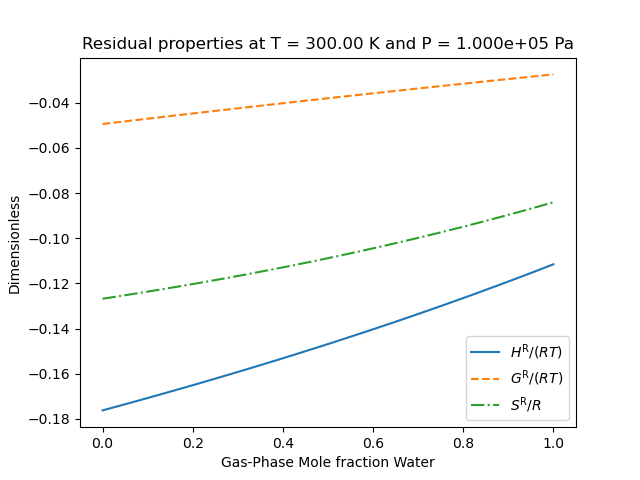
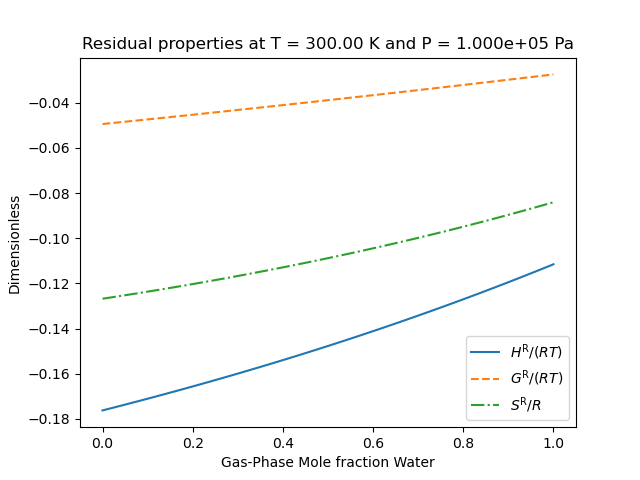
Fix bugs associated with new implementation of virial.py

diff --git a/src/gasthermo/eos/virial.py b/src/gasthermo/eos/virial.py
@@ -270,7 +270,7 @@ class Virial:
         :param P_c: critical pressure [Pa]
         :return: Equation :eq:`B_expr`
         """
-        return self.R * T_c / P_c * (
+        return R * T_c / P_c * (
                 self.B0_expr(T_r) + w * self.B1_expr(T_r)
         )
 
@@ -279,7 +279,7 @@ class Virial:
 
     def hat_phi_i_expr(self, *args):
         r"""expression for fugacity coefficient
-        :returns: :math:`\exp{\ln{\hat{\phi}_i}}`
+        :returns: :math:`\exp\left({\ln{\hat{\phi}_i}}\right)`
         """
         return self.exp(self.ln_hat_phi_k_expr(*args))
 
@@ -351,7 +351,7 @@ class SecondVirial(CriticalConstants, Virial):
         :type T: float
         """
         T_r = T / self.T_c
-        return P * self.B_expr(T_r, self.w, self.T_c, self.P_c) / self.R / T
+        return P * self.B_expr(T_r, self.w, self.T_c, self.P_c) / R / T
 
     def calc_Z_from_units(self, P, T):
         """
@@ -360,7 +360,7 @@ class SecondVirial(CriticalConstants, Virial):
         :param T: temperature in K
         :return: Equation :eq:`z_virial`
         """
-        return 1. + self.B_expr(T / self.T_c, self.w, self.T_c, self.P_c) * P / self.R / T
+        return 1. + self.B_expr(T / self.T_c, self.w, self.T_c, self.P_c) * P / R / T
 
     def calc_Z_from_dimensionless(self, P_r, T_r):
         """
@@ -451,13 +451,13 @@ class MixingRule(Virial):
         """
         return pow(T_ci * T_cj, 0.5) * (1. - k_ij)
 
-    def P_cij_rule(self, Z_ci, V_ci, T_ci, Z_cj, V_cj, T_cj):
+    def P_cij_rule(self, Z_ci, V_ci, T_ci, Z_cj, V_cj, T_cj, k_ij):
         """
 
         :return: Equation :eq:`Pc_combine`
         """
         Z_cij = self.Z_cij_rule(Z_ci, Z_cj)
-        T_cij = self.T_cij_rule(T_ci, T_cj)
+        T_cij = self.T_cij_rule(T_ci, T_cj, k_ij=k_ij)
         V_cij = self.V_cij_rule(V_ci, V_cj)
         return Z_cij * R * T_cij / V_cij
 
@@ -550,10 +550,19 @@ class SecondVirialMixture(MixingRule):
             self.V_cs = [None for i in range(self.num_components)]
         if self.T_cs is None:
             self.T_cs = [None for i in range(self.num_components)]
+        if self.Z_cs is None:
+            self.Z_cs = [None for i in range(self.num_components)]
         if self.ws is None:
             self.ws = [None for i in range(self.num_components)]
         if self.k_ij is None:
-            self.k_ij = [[None for i in range(self.num_components)] for j in range(self.num_components)]
+            self.k_ij = [[0. for i in range(self.num_components)] for j in range(self.num_components)]
+        if isinstance(self.k_ij, float) and self.num_components == 2:
+            value = self.k_ij
+            self.k_ij = [[0. for i in range(self.num_components)] for j in range(self.num_components)]
+            for i in range(self.num_components):
+                for j in range(self.num_components):
+                    if i != j:
+                        self.k_ij[i][j] = value
 
         self.critical_constants = []
         for i in range(self.num_components):
@@ -582,7 +591,7 @@ class SecondVirialMixture(MixingRule):
 
         for i in range(self.num_components):
             for j in range(self.num_components):
-                assert abs(self.k_ij[i][j]) < 1e-8, 'K[i][i] must be zero!'
+                assert self.k_ij[i][j] is None or abs(self.k_ij[i][j]) < 1e-8, 'K[i][i] must be zero!'
 
     def get_w_Tc_Pc(self, i: int, j=None):
         """Returns critical constants for calculation based off of whetner i = j or not
@@ -599,6 +608,7 @@ class SecondVirialMixture(MixingRule):
             self.P_cij_rule(
                 self.Z_cs[i], self.V_cs[i], self.T_cs[i],
                 self.Z_cs[j], self.V_cs[j], self.T_cs[j],
+                k_ij=self.k_ij[i][j]
             )
         )
 
@@ -634,7 +644,7 @@ class SecondVirialMixture(MixingRule):
         :param T: temperature in K
         :return: Equation :eq:`z_virial`
         """
-        return 1. + self.B_mix_expr(y_k, T) * P / self.R / T
+        return 1. + self.B_mix_expr(y_k, T) * P / R / T
 
     def d_ik_expr(self, i: int, k: int, T):
         """
@@ -797,15 +807,15 @@ class SecondVirialMixture(MixingRule):
         )
 
     def S_R_R(self, *args):
-        """Residual entropy of mixture :math:`S^\mathrm{R}`"""
+        r"""Residual entropy of mixture :math:`S^\mathrm{R}/R`"""
         return self.M_R_dimensionless(self.bar_SiR_R, *args)
 
     def H_R_RT(self, *args):
-        """Residual enthalpy of mixture :math:`H^\mathrm{R}`"""
+        r"""Residual enthalpy of mixture :math:`H^\mathrm{R}/R/T`"""
         return self.M_R_dimensionless(self.bar_HiR_RT, *args)
 
     def G_R_RT(self, *args):
-        """Residual free energy of mixture :math:`G^\mathrm{R}`"""
+        r"""Residual free energy of mixture :math:`G^\mathrm{R}/R/T`"""
         return self.M_R_dimensionless(self.bar_GiR_RT, *args)
 
     def plot_residual_HSG(self, P, T, ax=None, fig=None) -> typing.Tuple[plt.figure, plt.subplot]:
@@ -817,12 +827,14 @@ class SecondVirialMixture(MixingRule):
         :param fig: matplotlib figure, defautls to None
         """
 
+        assert self.num_components == 2, 'Plotting only implemented for binary mixtures'
+
         if ax is None:
             if fig is None:
                 fig = plt.figure()
             ax = fig.add_subplot(111)
             ax.set_ylabel('Dimensionless')
-            ax.set_xlabel('Gas-Phase Mole fraction %s' % self.i.compound_name)
+            ax.set_xlabel('Gas-Phase Mole fraction %s' % self.compound_names[0])
 
         y_1 = np.linspace(0., 1.)
         HR_RT = np.array(list(self.H_R_RT([i, 1. - i], P, T) for i in y_1))

diff --git a/tests/test_residual_properties.py b/tests/test_residual_properties.py
@@ -1,6 +1,6 @@
 import numpy as np
 from src.gasthermo.eos.cubic import PengRobinson
-from src.gasthermo.eos.virial import SecondVirial, BinarySecondVirial
+from src.gasthermo.eos.virial import SecondVirial, SecondVirialMixture
 from tests.test_cp_ig import compounds_to_test
 
 
@@ -25,22 +25,20 @@ def test_binary_virial():
     P, T = 10e5, 250.
     I = SecondVirial(compound_name='Water')
     J = SecondVirial(compound_name='Tetrahydrofuran')
-    mixture = BinarySecondVirial(
-        i_kwargs={'compound_name': 'Water'},
-        j_kwargs={'compound_name': 'Tetrahydrofuran'}, k_ij=0.)
+    mixture = SecondVirialMixture(compound_names=['Water', 'Tetrahydrofuran'], k_ij=0.)
     import numpy as np
     y_1 = np.linspace(0., 1.)
-    HR_RT = np.array(list(mixture.H_R_RT(mixture.i.cas_number, i, P, T) for i in y_1))
-    GR_RT = np.array(list(mixture.G_R_RT(mixture.i.cas_number, i, P, T) for i in y_1))
-    SR_R = np.array(list(mixture.S_R_R(mixture.i.cas_number, i, P, T) for i in y_1))
+    HR_RT = np.array(list(mixture.H_R_RT([i, 1.-i], P, T) for i in y_1))
+    GR_RT = np.array(list(mixture.G_R_RT([i, 1.-i], P, T) for i in y_1))
+    SR_R = np.array(list(mixture.S_R_R([i, 1.-i], P, T) for i in y_1))
     for g, h, s in zip(GR_RT, HR_RT, SR_R):
         assert np.isclose(g, h - s), 'residual not thermodynamically consistent'
-    assert np.isclose(mixture.H_R_RT(mixture.i.cas_number, 1., P, T), I.H_R_RT_expr(P, T)), 'HR for binary virial does not converge to unary'
-    assert np.isclose(mixture.G_R_RT(mixture.i.cas_number, 1., P, T), I.G_R_RT_expr(P, T)), 'GR for binary virial does not converge to unary'
-    assert np.isclose(mixture.S_R_R(mixture.i.cas_number, 1., P, T), I.S_R_R_expr(P, T)), 'Sr for binary virial for component i does not converge to unary'
-    assert np.isclose(mixture.H_R_RT(mixture.j.cas_number, 1., P, T), J.H_R_RT_expr(P, T)), 'Hr for binary virial of component j does not converge to virial'
-    assert np.isclose(mixture.G_R_RT(mixture.j.cas_number, 1., P, T), J.G_R_RT_expr(P, T)), 'GR for binary virial of component j does not converge to unary'
-    assert np.isclose(mixture.S_R_R(mixture.j.cas_number, 1., P, T), J.S_R_R_expr(P, T)), 'SR for binary virial of component j does not converge to unary'
+    assert np.isclose(mixture.H_R_RT([1., 0.], P, T), I.H_R_RT_expr(P, T)), 'HR for binary virial does not converge to unary'
+    assert np.isclose(mixture.G_R_RT([1., 0.], P, T), I.G_R_RT_expr(P, T)), 'GR for binary virial does not converge to unary'
+    assert np.isclose(mixture.S_R_R([1., 0.], P, T), I.S_R_R_expr(P, T)), 'Sr for binary virial for component i does not converge to unary'
+    assert np.isclose(mixture.H_R_RT([0., 1.], P, T), J.H_R_RT_expr(P, T)), 'Hr for binary virial of component j does not converge to virial'
+    assert np.isclose(mixture.G_R_RT([0., 1.], P, T), J.G_R_RT_expr(P, T)), 'GR for binary virial of component j does not converge to unary'
+    assert np.isclose(mixture.S_R_R([0., 1.], P, T), J.S_R_R_expr(P, T)), 'SR for binary virial of component j does not converge to unary'
 
 
 def test_cubic():

diff --git a/tests/test_critical_properties.py b/tests/test_critical_properties.py
@@ -1,33 +1,55 @@
 from src.gasthermo.critical_constants import CriticalConstants
 from src.gasthermo.eos.cubic import PengRobinson
-from src.gasthermo.eos.virial import SecondVirial, BinarySecondVirial
+from src.gasthermo.eos.virial import SecondVirial, SecondVirialMixture
 import numpy as np
 from chem_util.chem_constants import gas_constant
 from chem_util.math import percent_difference
 
 tol = 0.1
-kwargs_i = {'T_c': 374.5, 'V_c': 9.44e-5, 'Z_c': 0.284, 'w': 0.0942, 'MW': 34.081,
-                 'compound_name': 'H2S', 'cas_number': 'i'}
-kwargs_i['P_c'] = kwargs_i['Z_c'] * gas_constant * kwargs_i['T_c'] / kwargs_i['V_c']
-kwargs_j = {
-    'T_c': 191.4, 'V_c': 0.100, 'Z_c': 0.286, 'w': 0.0115, 'MW': 16.042,
-    'compound_name': 'CH4', 'cas_number': 'j'
-}
-kwargs_j['P_c'] = kwargs_j['Z_c'] * gas_constant * kwargs_j['T_c'] / kwargs_j['V_c']
+# H2S
+i = 'H2S'
+casi = '000'
+T_ci = 374.5
+V_ci = 9.44e-5
+Z_ci = 0.284
+w_i = 0.0942
+MW_i = 34.081
+P_ci = Z_ci * gas_constant * T_ci / V_ci
+# compound_name_i = 'H2S'
+
+# CH4
+j = 'CH4'
+casj = '2200'
+T_cj = 191.4
+V_cj = 0.100
+Z_cj = 0.286
+w_j = 0.0115
+MW_j = 16.042
+P_cj = Z_cj * gas_constant * T_cj / V_cj
 
 
 def test_input_custom():
     """Test can input custom properties"""
-    I = CriticalConstants(**kwargs_i)
-    J = PengRobinson(**kwargs_i)
-    K = SecondVirial(**kwargs_i)
+    kwargs = dict(compound_name=i, cas_number=casi, T_c=T_ci, P_c=P_ci, V_c=V_ci, Z_c=Z_ci, w=w_i, MW=MW_i)
+    I = CriticalConstants(**kwargs)
+    J = PengRobinson(**kwargs)
+    K = SecondVirial(**kwargs)
     T, P = 300., 10e5
     assert percent_difference(J.iterate_to_solve_Z(T, P, 'vapor'), K.calc_Z_from_units(P, T)) < 0.1, "compressibility factors from second virial and PR differ by > 0.1 %%"
 
 
 def test_input_binaryvirial():
-    unary = SecondVirial(**kwargs_i)
-    binary = BinarySecondVirial(i_kwargs=kwargs_i, j_kwargs=kwargs_j)
+    unary = SecondVirial(compound_name=i, cas_number=casi, T_c=T_ci, P_c=P_ci, V_c=V_ci, Z_c=Z_ci, w=w_i, MW=MW_i)
+    binary = SecondVirialMixture(
+        compound_names=[i, j],
+        cas_numbers=[casi, casj],
+        T_cs=[T_ci, T_cj],
+        P_cs=[P_ci, P_cj],
+        V_cs=[V_ci, V_cj],
+        Z_cs=[Z_ci, Z_cj],
+        ws=[w_i, w_j],
+        MWs=[MW_i, MW_j]
+    )
     P, T = 300., 10e5
-    assert np.isclose(binary.calc_Z({'j': 0., 'i': 1.}, P, T), unary.calc_Z_from_units(P, T)), 'Binary compressibitily not same as unary compressibility'
+    assert np.isclose(binary.calc_Z_from_units([1., 0.], P, T), unary.calc_Z_from_units(P, T)), 'Binary compressibitily not same as unary compressibility'
 

diff --git a/src/gasthermo/__init__.py b/src/gasthermo/__init__.py
@@ -75,9 +75,9 @@ Residual Properties
 
 Below, an example is shown for calculating residual properties of THF/Water mixtures
 
->>> from src.gasthermo.eos.virial import BinarySecondVirial
+>>> from src.gasthermo.eos.virial import SecondVirialMixture
 >>> P, T = 1e5, 300.
->>> mixture = BinarySecondVirial(i_kwargs = {'compound_name': 'Water'}, j_kwargs = {'compound_name': 'Tetrahydrofuran'}, k_ij=0.)
+>>> mixture = SecondVirialMixture(compound_names=['Water', 'Tetrahydrofuran'], k_ij=0.)
 >>> import matplotlib.pyplot as plt
 >>> fig, ax = mixture.plot_residual_HSG(P, T)
 >>> fig.savefig('docs/source/THF-WATER.png')
